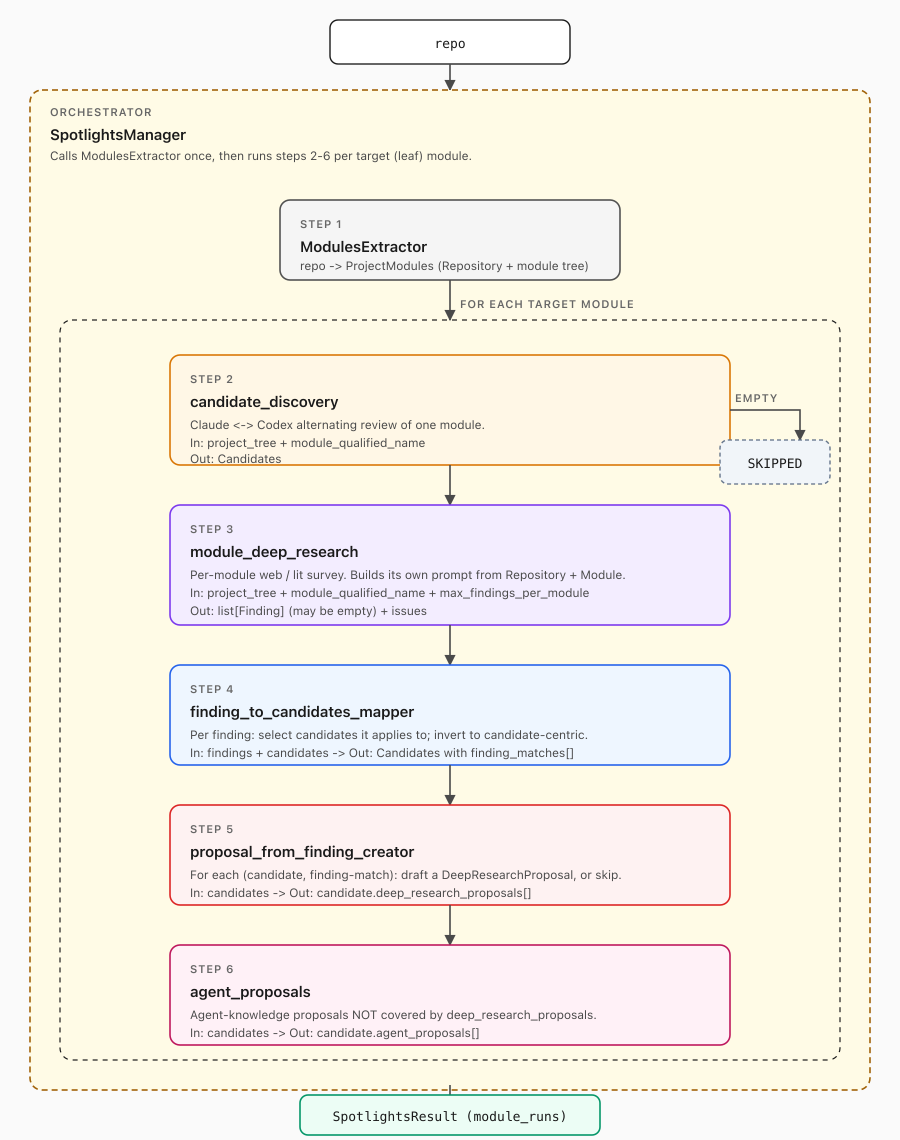
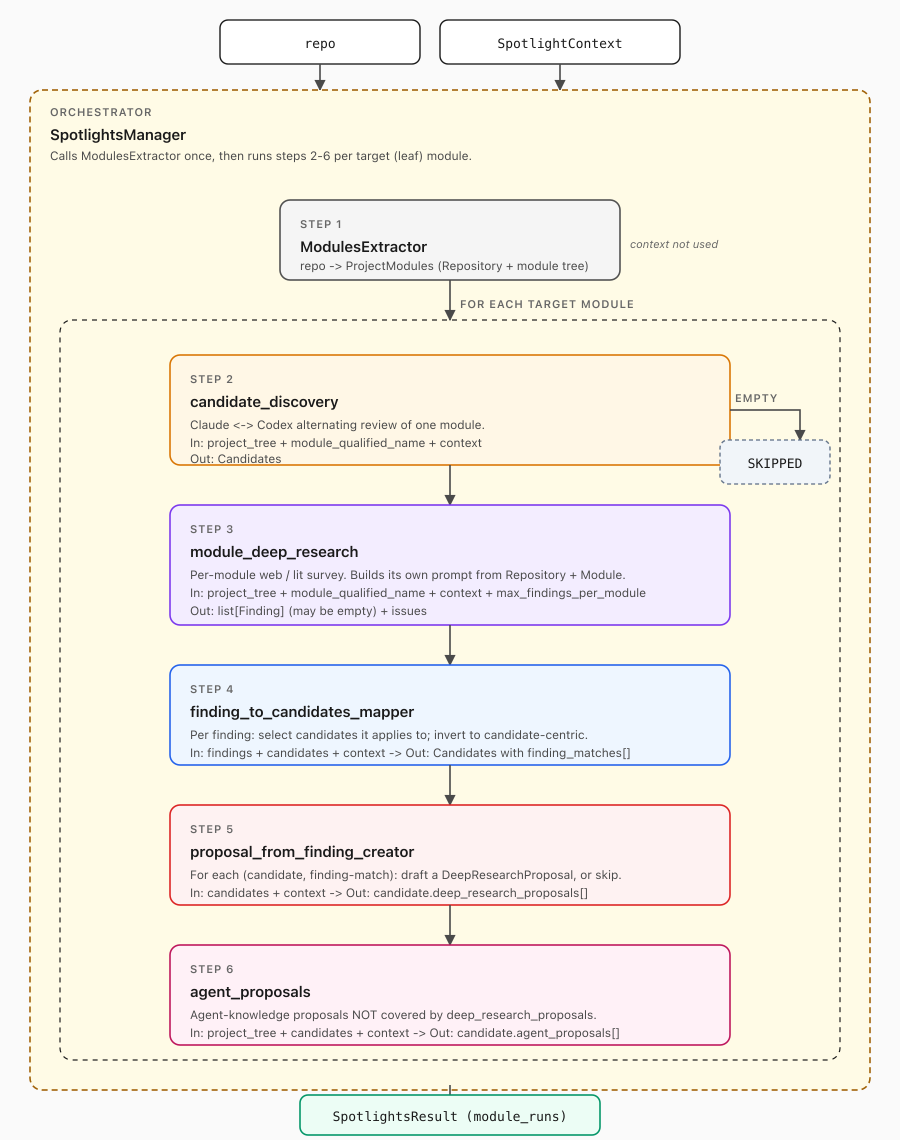
SpotlightContext

diff --git a/docs/architecture/spotlights_deep_research_path_architecture.md b/docs/architecture/spotlights_deep_research_path_architecture.md
@@ -14,13 +14,22 @@ supportable for that candidate.
 `SpotlightsManager` orchestrates the flow: it calls `ModulesExtractor` once
 per repo, then runs steps 2–6 once per module from the extracted tree.
 
+Callers also supply a `SpotlightContext` (objective, workload hints, validation
+plan) alongside the repo path. The context is threaded into the discovery,
+deep research, mapping, and proposal steps so they can bias their judgments
+toward the caller's goal. It is intentionally withheld from extraction so the
+structural map stays objective-agnostic and reusable across runs.
+
 ## Block diagram
 
 ![Spotlights deep-research path block diagram](spotlights_deep_research_path.png)
 
 ## Shared schemas
 
-These types are reused across module signatures below.
+These types are reused across module signatures below. Most are produced and
+consumed across pipeline steps; `SpotlightContext` is the exception — it is a
+**caller input** that only flows downward into a subset of steps and is never
+mutated by the pipeline.
 
 ```python
 
@@ -44,6 +53,11 @@ class Repository(BaseModel):
 class ProjectModules(BaseModel):
     repository: Repository
     modules: list[Module] = []
+
+class SpotlightContext(BaseModel):
+    objective: str
+    workload_hints: list[str] = []
+    validation_plan: list[str] = []
 
 CandidateKind = Literal[
     "function", "method", "loop", "region",
@@ -133,6 +147,48 @@ class ModuleRun(BaseModel):
     issues: list[StepIssue] = []
 ```
 
+### SpotlightContext semantics
+
+`SpotlightContext` carries the caller's intent for a run:
+
+- `objective` — the high-level goal of this run (e.g. "reduce decode latency
+  for long-context serving"). Anchors what counts as a worthwhile candidate
+  or proposal. Required: a run without an objective is a smell, and the field
+  is cheap to provide.
+- `workload_hints` — free-form workload / deployment notes (batch sizes,
+  traffic shape, hardware) that bias relevance judgments downstream.
+- `validation_plan` — how a proposed change should be validated in this
+  environment; lets proposal and mapping steps prefer changes whose evidence
+  is testable here.
+
+The `list[str]` shape for `workload_hints` and `validation_plan` is a
+deliberate v1 trade-off: it pushes structure into prose so consuming steps
+can read it as natural language. Revisit if a downstream step ever needs to
+filter or branch on a specific hint kind — at that point, promote the
+relevant entries to typed fields.
+
+`SpotlightContext` is **caller-supplied**. The pipeline does not derive,
+mutate, or persist it onto candidates. `Candidate`, `Finding`, `ModuleRun`,
+and `Candidates` are unchanged by its introduction; the only existing schema
+that records context is `SpotlightsResult`, which echoes it back so a result
+is self-describing for audit and repro.
+
+Example:
+
+```python
+SpotlightContext(
+    objective="reduce decode latency for long-context serving",
+    workload_hints=[
+        "batch size 1–8, prompts up to 32k tokens",
+        "single-node 8xH100, NVLink",
+    ],
+    validation_plan=[
+        "compare tokens/sec on the existing vLLM benchmark harness",
+        "verify generations match reference within tolerance",
+    ],
+)
+```
+
 A **module qualified name** is the dot-joined chain of `Module.name` values from
 a top-level entry in `ProjectModules.modules` down through nested `submodules` to
 the target module. It uniquely identifies a module within a `ProjectModules`
@@ -191,15 +247,20 @@ is marked `DEGRADED`; a module with an unrecoverable issue is marked `FAILED`.
 ```python
 class SpotlightsManagerInput(BaseModel):
     repo_path: Path
+    context: SpotlightContext
     max_findings_per_module: int = 10
     continue_on_module_failure: bool = True
 ```
+
+The manager forwards `context` unchanged into steps 2, 3, 4, 5, and 6, and
+copies it onto `SpotlightsResult`. It is intentionally not passed to step 1.
 
 **Output**
 
 ```python
 class SpotlightsResult(BaseModel):
     project_tree: ProjectModules
+    context: SpotlightContext
     module_runs: dict[str, ModuleRun]   # keyed by module qualified name
 ```
 
@@ -209,6 +270,10 @@ Produces a structured map of the repo's modules: top-level `Repository`
 metadata plus a tree of `Module` nodes (name, path, description, `depends_on`,
 `main_files`, nested `submodules`). Synchronous and deterministic for a given
 input.
+
+`SpotlightContext` is intentionally not passed in: the structural map must not
+be biased by objective so its output is reusable across runs with different
+objectives.
 
 **Input**
 
@@ -225,12 +290,16 @@ Already implemented. Claude ⇄ Codex alternating review of one module emits
 candidate code locations worth optimizing, each with a rationale and an impact
 rating. Read-only over the module.
 
+Uses `context.objective` and `context.workload_hints` to rank candidate kinds
+and filter out low-leverage locations that are off-objective.
+
 **Input**
 
 ```python
 class CandidateDiscoveryInput(BaseModel):
     project_tree: ProjectModules
     module_qualified_name: str
+    context: SpotlightContext
 ```
 
 **Output** — `Candidates` (see *Shared schemas*). At this stage
@@ -244,6 +313,10 @@ from the repo info (`Repository`) and the target `Module` fields (name, path,
 description, `main_files`, `depends_on`), keeping prompt construction out of
 the orchestrator.
 
+Uses `context.objective` and `context.workload_hints` to bias the survey
+toward sources relevant to the caller's goal and deployment shape, and to
+filter out findings that are clearly off-objective.
+
 An empty `findings` list is valid. It means no relevant source survived the
 survey and filtering pass; it only marks the module `DEGRADED` when accompanied
 by a recoverable `StepIssue`.
@@ -254,6 +327,7 @@ by a recoverable `StepIssue`.
 class ModuleDeepResearchInput(BaseModel):
     project_tree: ProjectModules
     module_qualified_name: str
+    context: SpotlightContext
     max_findings_per_module: int = 10
 ```
 
@@ -276,12 +350,17 @@ each candidate is filled with its related matches on
 The match edge is explicit because applicability is a judgment, not just a
 foreign-key join. Each edge carries confidence, rationale, and mapper identity.
 
+Uses `context.objective` to score finding↔candidate confidence and to filter
+matches that are clearly off-objective. The target module is read off
+`candidates.module_qualified_name`; no parallel argument is added.
+
 **Input**
 
 ```python
 class FindingToCandidatesMapperInput(BaseModel):
     findings: list[Finding]            # from module_deep_research
     candidates: Candidates             # from candidate_discovery
+    context: SpotlightContext
 ```
 
 **Output**
@@ -300,11 +379,16 @@ For every candidate/finding-match pair the candidate carries, drafts one
 `DeepResearchProposal`. The module may decide a finding does not contain enough
 information to support a proposal and skip it.
 
+Uses `context.validation_plan` to bias toward proposals whose claims can be
+tested in the caller's environment, and `context.objective` to keep the
+proposal aligned with the run's goal.
+
 **Input**
 
 ```python
 class ProposalFromFindingCreatorInput(BaseModel):
     candidates: Candidates             # with finding_matches, from step 4
+    context: SpotlightContext
 ```
 
 **Output**
@@ -325,11 +409,19 @@ covered by `deep_research_proposals`. This pass still runs for candidates with
 no research-backed proposals, because those candidates may have useful
 agent-knowledge ideas.
 
+Uses `context.objective` and `context.validation_plan` to keep agent-knowledge
+proposals aligned with the run's goal and verifiable in the caller's
+environment. Receives `project_tree` so proposals can situate the candidate
+within sibling and parent modules rather than reasoning from the candidate
+site alone.
+
 **Input**
 
 ```python
 class AgentProposalsInput(BaseModel):
+    project_tree: ProjectModules
     candidates: Candidates             # from step 5
+    context: SpotlightContext
 ```
 
 **Output**
